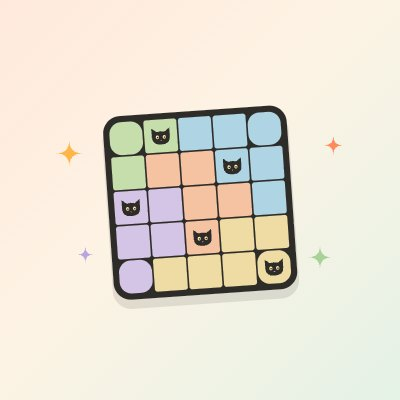
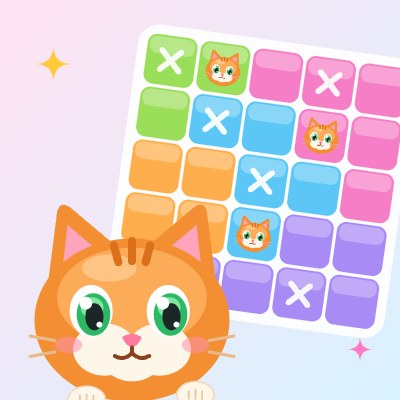
Meow: bright casual look (glossy tiles, a cat mascot, chunky buttons)
Inspired by the style of casual puzzle apps the user pointed to, with our own
art: glossy rounded tiles in bright colours (the colour marks the region),
white × marks, Miso (an original ginger cat with green eyes) in the squares,
on home and on the Games tab card, gradient buttons, Fredoka headings and a
soft pink-to-blue background. The cat uses solid colours: an SVG gradient
referenced by id broke wherever its first copy sat in a hidden part of the page.

diff --git a/backend/game-pages/meowdoku.html b/backend/game-pages/meowdoku.html
@@ -9,7 +9,7 @@
 <meta name="color-scheme" content="light">
 <link rel="preconnect" href="https://fonts.googleapis.com">
 <link rel="preconnect" href="https://fonts.gstatic.com" crossorigin>
-<link rel="stylesheet" href="https://fonts.googleapis.com/css2?family=Figtree:wght@400;600;700;800&family=Sora:wght@600;700;800&display=swap">
+<link rel="stylesheet" href="https://fonts.googleapis.com/css2?family=Figtree:wght@400;600;700;800&family=Fredoka:wght@500;600;700&display=swap">
 <style>
 /* Meow: one cat in every row, column and coloured region, and no two cats touching. The puzzle and its pixel look are the Pocket Puzzles
    design; around it, everything Odd One Out has in the Sowaka app: the company's leaderboard, colleague challenges on the same puzzle, how to play,
@@ -19,15 +19,15 @@
 [hidden]{display:none!important}
 :root{
   color-scheme:light; --padt:max(14px,env(safe-area-inset-top));
-  --bg:#FBF7F1; --paper:#FFFFFF; --soft:#F4EFE7; --soft2:#EAE3D8; --ink:#2E2C29; --line:#E7E0D4; --muted:#79736A; --faint:#C9C1B4;
+  --bg:#F6F1FF; --paper:#FFFFFF; --soft:#F4EFE7; --soft2:#EAE3D8; --ink:#2E2C29; --line:#E7E0D4; --muted:#79736A; --faint:#C9C1B4;
   --sh:0 1px 2px rgba(46,44,41,.06),0 6px 18px rgba(46,44,41,.08); --sh-press:0 1px 2px rgba(46,44,41,.08);
-  --accent:#FF8A5B; --accent-hi:#FF9C72; --mint:#E6F2E1; --mint2:#B8D6AD; --good:#4E8B4F; --bad:#A22220; --gold:#F5AB4E; --pink:#E9896D;
-  --pixel:'Sora',system-ui,-apple-system,'Segoe UI',sans-serif; --mono:'Figtree',system-ui,-apple-system,sans-serif; --body:'Figtree',system-ui,-apple-system,'Segoe UI',sans-serif;
+  --accent:#FF9431; --accent-hi:#FFA54F; --accent-deep:#DB6A12; --mint:#E6F2E1; --mint2:#B8D6AD; --good:#4E8B4F; --bad:#A22220; --gold:#F5AB4E; --pink:#E9896D;
+  --pixel:'Fredoka','Sora',system-ui,-apple-system,'Segoe UI',sans-serif; --mono:'Figtree',system-ui,-apple-system,sans-serif; --body:'Figtree',system-ui,-apple-system,'Segoe UI',sans-serif;
 }
 *{box-sizing:border-box}
-html{overflow-x:clip;background:var(--bg);-webkit-text-size-adjust:100%;text-size-adjust:100%;touch-action:manipulation;overscroll-behavior:none}
+html{overflow-x:clip;background:linear-gradient(180deg,#FFF0F8 0%,#EEF2FF 45%,#E6F6FF 100%) fixed;-webkit-text-size-adjust:100%;text-size-adjust:100%;touch-action:manipulation;overscroll-behavior:none}
 body{margin:0;min-height:100vh;min-height:100dvh;color:var(--ink);font-family:var(--body);font-size:15px;line-height:1.35;
-  background:var(--bg);
+  background:transparent;
   padding:var(--padt) max(16px,env(safe-area-inset-right)) calc(32px + env(safe-area-inset-bottom)) max(16px,env(safe-area-inset-left));
   touch-action:manipulation;overscroll-behavior:none;-webkit-user-select:none;user-select:none;-webkit-touch-callout:none;-webkit-tap-highlight-color:transparent}
 button{font:inherit;color:inherit;touch-action:manipulation;-webkit-tap-highlight-color:transparent;cursor:pointer}
@@ -53,12 +53,12 @@ h1 .face{width:26px;height:24px}
 .btn{font-family:var(--body);font-weight:700;font-size:15px;line-height:1.15;min-height:48px;padding:8px 14px;border-radius:14px;border:1px solid var(--line);
   background:var(--paper);color:var(--ink);box-shadow:var(--sh);display:inline-flex;align-items:center;justify-content:center;gap:8px;transition:transform .06s,box-shadow .06s}
 .btn:active{transform:translateY(1px);box-shadow:var(--sh)}
-.btn.go{background:var(--accent);font-family:var(--pixel);font-weight:800;font-size:16px;letter-spacing:0;min-height:58px}
-.btn.go:active{background:var(--accent-hi)}
+.btn.go{background:linear-gradient(180deg,#FFB24F,#FF8A22);color:#fff;border-color:transparent;text-shadow:0 1px 0 rgba(170,70,0,.35);box-shadow:0 5px 0 var(--accent-deep),0 10px 18px rgba(219,106,18,.25)!important;font-family:var(--pixel);font-weight:800;font-size:16px;letter-spacing:0;min-height:58px}
+.btn.go:active{transform:translateY(4px);box-shadow:0 1px 0 var(--accent-deep)!important}
 .btn.primary{background:var(--ink);color:var(--paper)}
 .btn:disabled{opacity:.45;cursor:default}
 .mini{font-family:var(--body);font-weight:700;font-size:12px;min-height:32px;padding:0 10px;border-radius:12px;border:1px solid var(--line);background:var(--paper);color:var(--ink);white-space:nowrap}
-.mini.yes{font-family:var(--pixel);font-weight:800;font-size:12px;min-height:40px;min-width:92px;padding:0 12px;background:var(--accent);box-shadow:var(--sh)}
+.mini.yes{font-family:var(--pixel);font-weight:800;font-size:15px;min-height:40px;min-width:92px;padding:0 12px;background:linear-gradient(180deg,#FFB24F,#FF8A22);color:#fff;border-color:transparent;box-shadow:var(--sh)}
 .mini.yes:active{transform:translateY(1px);box-shadow:var(--sh)}
 .mini:disabled{opacity:.5}
 .link{font-family:var(--body);font-weight:700;font-size:13px;color:var(--muted);background:none;border:0;padding:6px 0;text-decoration:underline;text-underline-offset:2px}
@@ -70,7 +70,7 @@ h1 .face{width:26px;height:24px}
 .top{position:relative;margin:calc(-1*var(--padt)) calc(50% - 50vw) 0;padding:var(--padt) max(16px,env(safe-area-inset-right)) 16px max(16px,env(safe-area-inset-left));
   background:var(--paper);border-bottom:2px solid var(--line);display:flex;flex-direction:column;align-items:center;gap:10px}
 .top>*{position:relative;width:100%;max-width:440px}
-.top .art{border-radius:20px;overflow:hidden;background:linear-gradient(135deg,#FFE9DC 0%,#FDF3E4 45%,#E4F2E6 100%)}
+.top .art{border-radius:22px;overflow:hidden;background:linear-gradient(135deg,#FFE3F2 0%,#F3ECFF 50%,#D9F1FF 100%)}
 .top .art svg{display:block;width:100%;height:160px}
 .top .tt{margin:2px 0 0;text-align:center;font-family:var(--pixel);font-weight:700;font-size:16px;line-height:1.4;letter-spacing:-.01em;color:var(--ink)}
 .rankbar{display:grid;grid-template-columns:1fr auto;gap:8px;align-items:stretch}
@@ -92,7 +92,7 @@ h1 .face{width:26px;height:24px}
 .tabs.one{grid-template-columns:1fr}
 .tab{position:relative;font-family:var(--body);font-weight:700;font-size:14px;line-height:1;min-height:44px;border-radius:12px;border:0;background:transparent;color:var(--muted);
   display:flex;align-items:center;justify-content:center;gap:8px}
-.tab.on{background:var(--ink);color:#fff}
+.tab.on{background:linear-gradient(180deg,#9A7BFF,#7457F0);color:#fff;box-shadow:0 3px 0 #5A3FD0}
 .badge{min-width:22px;height:22px;padding:0 7px;border-radius:999px;background:var(--accent);color:var(--ink);font-weight:700;font-size:12px;display:grid;place-items:center;border:1px solid var(--line)}
 .tab.on .badge{border-color:var(--paper)}
 .pane{display:flex;flex-direction:column;gap:14px}
@@ -153,22 +153,22 @@ h1 .face{width:26px;height:24px}
 
 /* The board. */
 .stage{position:relative}
-.board{--n:6;display:grid;grid-template-columns:repeat(var(--n),1fr);grid-template-rows:repeat(var(--n),minmax(0,1fr));aspect-ratio:1;border:2.5px solid var(--ink);border-radius:14px;
-  overflow:hidden;background:var(--ink);width:100%;box-shadow:var(--sh);touch-action:none}
-.cell{position:relative;min-width:0;min-height:0;padding:0;border:0;border-radius:0;background:var(--color);display:grid;place-items:center;box-shadow:inset -1px -1px rgba(46,44,41,.14);
-  border-right:var(--edge-r,0) solid #3A3733;border-bottom:var(--edge-b,0) solid #3A3733;-webkit-user-select:none;user-select:none}
+.board{--n:6;display:grid;grid-template-columns:repeat(var(--n),1fr);grid-template-rows:repeat(var(--n),minmax(0,1fr));gap:calc(24px/var(--n));padding:calc(36px/var(--n));aspect-ratio:1;border:0;border-radius:22px;
+  overflow:hidden;background:#fff;width:100%;box-shadow:0 2px 0 rgba(120,90,200,.10),0 12px 30px rgba(120,90,200,.18);touch-action:none}
+.cell{position:relative;min-width:0;min-height:0;padding:0;border:0!important;border-radius:calc(70px/var(--n));display:grid;place-items:center;
+  background:linear-gradient(180deg,rgba(255,255,255,.34) 0,rgba(255,255,255,.34) 32%,rgba(255,255,255,0) 33%),var(--color);box-shadow:inset 0 -4px 0 rgba(0,0,0,.13),inset 0 2px 0 rgba(255,255,255,.35);-webkit-user-select:none;user-select:none}
 .cell:focus-visible{outline:3px dashed var(--ink);outline-offset:-5px;z-index:1}
-.cell .face{width:62%;height:62%;pointer-events:none}
-.cell .mark{width:34%;height:34%;color:rgba(46,44,41,.55);pointer-events:none}
+.cell .face{width:78%;height:72%;pointer-events:none;filter:drop-shadow(0 2px 1px rgba(0,0,0,.18))}
+.cell .mark{width:44%;height:44%;color:#fff;pointer-events:none;filter:drop-shadow(0 1.5px 1px rgba(0,0,0,.28))}
 .cell.bad::after{content:'!';position:absolute;right:2px;top:2px;font:bold 12px/15px var(--mono);background:var(--bad);color:#fff;border-radius:50%;width:15px;height:15px;text-align:center}
 .cell .pin{position:absolute;bottom:3px;right:3px;width:9px;height:9px;color:#55564B;line-height:9px;pointer-events:none}
 .cell.hint{animation:hintflash .9s ease-out}
-.cell.was{outline:3px solid var(--accent);outline-offset:-4px}
+.cell.was{outline:3px solid #fff;outline-offset:-4px;box-shadow:0 0 0 3px var(--accent)}
 /* Over the board while it counts down; on the menu (.m) it is the menu itself. */
-.cover{position:absolute;inset:-4px;border-radius:18px;background:var(--bg);display:flex;flex-direction:column;align-items:center;justify-content:center;gap:12px;text-align:center;padding:12px;z-index:2}
+.cover{position:absolute;inset:-4px;border-radius:22px;background:#F7F3FF;display:flex;flex-direction:column;align-items:center;justify-content:center;gap:12px;text-align:center;padding:12px;z-index:2}
 .cover:not(.m) h2{font-family:var(--pixel);font-weight:800;font-size:18px;margin:0;line-height:1.4}
 .cover:not(.m) p{margin:0;color:var(--muted);max-width:30ch;font-size:14px}
-.cover .n{font-family:var(--pixel);font-weight:800;font-size:96px;line-height:1;color:var(--accent)}
+.cover .n{font-family:var(--pixel);font-weight:700;font-size:110px;line-height:1;color:#FF9A2E;text-shadow:0 6px 0 var(--accent-deep)}
 .cover .nb{font-family:var(--pixel);font-size:12px;color:var(--muted);letter-spacing:0}
 .cover.m{position:static;inset:auto;background:none;border-radius:0;padding:0;align-items:stretch;justify-content:flex-start;gap:14px;text-align:left}
 /* The tools under the board. */
@@ -399,24 +399,46 @@ const num=i=>String(i).padStart(3,'0');
 const paths={timer:'M9 2h6 M12 5a8 8 0 1 0 .01 0 M12 8v5h4',cross:'m6 6 12 12M18 6 6 18',cat:'M3 4l5 4h8l5-4v12l-4 4H7l-4-4z M8 12v2m8-2v2m-5 2h2',undo:'M4 10h10a6 6 0 0 1 0 12 M4 10l6-6 M4 10l6 6',bulb:'M9 17v-2a7 7 0 1 1 6 0v2z M9 20h6 M11 23h2',lock:'M5 11h14v10H5z M8 11V7a4 4 0 0 1 8 0v4'};
 function icon(k){ return '<svg aria-hidden="true" class="icon" viewBox="0 0 24 24" fill="none" stroke="currentColor" stroke-width="2" stroke-linecap="round" stroke-linejoin="round"><path d="'+paths[k]+'"/></svg>'; }
 document.querySelectorAll('[data-icon]').forEach(e=>e.replaceWith(document.createRange().createContextualFragment(icon(e.dataset.icon))));
-/* The cat: a clean flat face, dark on the pastel squares. */
-const CAT_PATH='<path d="M4 3.5 10.6 8.6Q16 7 21.4 8.6L28 3.5V15.2Q28 25.5 16 25.5T4 15.2Z" fill="#2E2C29"/><ellipse cx="11.4" cy="15.6" rx="2.1" ry="2.5" fill="#FFE7A8"/><ellipse cx="20.6" cy="15.6" rx="2.1" ry="2.5" fill="#FFE7A8"/><circle cx="11.7" cy="16" r=".95" fill="#2E2C29"/><circle cx="20.9" cy="16" r=".95" fill="#2E2C29"/><path d="M14.7 19.6h2.6L16 21.1Z" fill="#F7A1B5"/>';
-const FACE='<svg class="face" aria-hidden="true" viewBox="0 0 32 28">'+CAT_PATH+'</svg>';
+/* Miso, the game's cat: a round ginger face with big green eyes. CAT is the face alone (in a square of the board); MASCOT adds the paws. */
+/* Solid colours with highlights, no gradients: a gradient referenced by id breaks wherever its first copy sits in a hidden part of the page. */
+const CAT_DEFS='';
+const EYE=(x)=>'<ellipse cx="'+x+'" cy="49" rx="9.5" ry="11.5" fill="#fff"/><ellipse cx="'+(x+1)+'" cy="50.5" rx="7.4" ry="9.4" fill="#2DB866"/><ellipse cx="'+(x+.4)+'" cy="47.5" rx="5" ry="4.6" fill="#7FE7A0"/><ellipse cx="'+(x+1.4)+'" cy="51.5" rx="4" ry="6" fill="#1D2626"/><circle cx="'+(x-2.4)+'" cy="45.5" r="2.8" fill="#fff"/><circle cx="'+(x+3.6)+'" cy="55" r="1.3" fill="#fff"/>';
+const CAT_BODY=CAT_DEFS
+  +'<path d="M12 44 17 5Q18.5 0 23 3.5L45 22Z" fill="#F48E33"/><path d="M19 34 21.5 11 37 24Z" fill="#FFA4BD"/>'
+  +'<path d="M88 44 83 5Q81.5 0 77 3.5L55 22Z" fill="#F48E33"/><path d="M81 34 78.5 11 63 24Z" fill="#FFA4BD"/>'
+  +'<ellipse cx="50" cy="53" rx="43" ry="36" fill="#F48E33"/><ellipse cx="50" cy="43" rx="33" ry="22" fill="#FFB466" opacity=".75"/><ellipse cx="40" cy="30" rx="12" ry="6" fill="#FFD9A8" opacity=".55"/>'
+  +'<path d="M50 18v9M42 20l2 7.5M58 20l-2 7.5" stroke="#DA6F1C" stroke-width="3.6" stroke-linecap="round"/>'
+  +'<ellipse cx="38" cy="66" rx="14" ry="11.5" fill="#FFF6EA"/><ellipse cx="62" cy="66" rx="14" ry="11.5" fill="#FFF6EA"/><ellipse cx="50" cy="70" rx="13" ry="10" fill="#FFF6EA"/>'
+  +EYE(32)+EYE(66)
+  +'<ellipse cx="22" cy="64" rx="6" ry="3.6" fill="#FF8FAE" opacity=".55"/><ellipse cx="78" cy="64" rx="6" ry="3.6" fill="#FF8FAE" opacity=".55"/>'
+  +'<path d="M45.6 60.5Q50 57.6 54.4 60.5Q52.6 64.6 50 65Q47.4 64.6 45.6 60.5Z" fill="#FF7AA0"/>'
+  +'<path d="M50 65v2.6M50 67.6q-3.6 3.6-7.6 1.2M50 67.6q3.6 3.6 7.6 1.2" fill="none" stroke="#8A4320" stroke-width="1.8" stroke-linecap="round"/>'
+  +'<path d="M16 62l-11-2M16 67l-11 2M84 62l11-2M84 67l11 2" stroke="#E9B98A" stroke-width="1.4" stroke-linecap="round"/>';
+const FACE='<svg class="face" aria-hidden="true" viewBox="0 0 100 90">'+CAT_BODY+'</svg>';
 document.querySelector('[data-face]').outerHTML=FACE;
-/* Home's picture: a small solved board on a warm gradient, a cat in every row, column and colour. */
-const MEADOW=(()=>{ const n=5, g=[0,0,1,1,1, 0,2,2,1,1, 3,3,2,2,1, 3,3,2,4,4, 3,4,4,4,4], cats=[1,8,10,17,24], C=['#C6DDAC','#AFD4E3','#F5C2A2','#D4C4E5','#EEDCA4'];
-  const cs=26, x0=150-n*cs/2, y0=12; let b='<svg class="scene" viewBox="0 0 300 150" role="img" aria-label="A solved Meow board with five cats">';
-  b+='<g transform="rotate(-4 150 75)"><rect x="'+(x0-5)+'" y="'+(y0-5)+'" width="'+(n*cs+10)+'" height="'+(n*cs+10)+'" rx="14" fill="#2E2C29" opacity=".12" transform="translate(0 6)"/>';
-  b+='<rect x="'+(x0-4)+'" y="'+(y0-4)+'" width="'+(n*cs+8)+'" height="'+(n*cs+8)+'" rx="13" fill="#2E2C29"/>';
-  for(let i=0;i<n*n;i++){ const x=x0+(i%n)*cs, y=y0+Math.floor(i/n)*cs; b+='<rect x="'+(x+.6)+'" y="'+(y+.6)+'" width="'+(cs-1.2)+'" height="'+(cs-1.2)+'" rx="'+(i===0||i===n-1||i===n*n-n||i===n*n-1?9:2)+'" fill="'+C[g[i]]+'"/>';
-    if(cats.includes(i))b+='<svg x="'+(x+4)+'" y="'+(y+5)+'" width="'+(cs-8)+'" height="'+(cs-10)+'" viewBox="0 0 32 28">'+CAT_PATH+'</svg>'; }
+const PAW=(x,y)=>'<g transform="translate('+x+' '+y+')"><ellipse cx="0" cy="0" rx="14" ry="10" fill="#FFF6EA" stroke="#F0D9BF" stroke-width="1.2"/><path d="M-5 -3v6M0 -4v7M5 -3v6" stroke="#E7C9A6" stroke-width="1.4" stroke-linecap="round"/></g>';
+/* Home's picture (and the Games tab card): a glossy board with ×s and cats, and Miso beside it with a paw on the edge. */
+const TILE_COLS=['#9BDE5A','#F57EC6','#5CC6F6','#FFAE4D','#A98BF5','#FFD84A','#4FD8BA','#FF7C7C'];
+function heroArt(square){ const W=300, H=square?300:160, g=[0,0,1,1,1, 0,2,2,1,1, 3,3,2,2,1, 3,3,2,4,4, 3,4,4,4,4], n=5;
+  const cs=square?40:25, x0=square?96:146, y0=square?36:14, cats={1:1,8:1,17:1}, xs={0:1,3:1,6:1,12:1,20:1,23:1};
+  let b='<svg class="scene" viewBox="0 0 '+W+' '+H+'" role="img" aria-label="Miso the cat beside a Meow board">'+CAT_DEFS;
+  if(square)b+='<defs><linearGradient id="msky" x1="0" y1="0" x2="1" y2="1"><stop offset="0" stop-color="#FFE3F2"/><stop offset="1" stop-color="#D9F1FF"/></linearGradient></defs><rect width="300" height="300" fill="url(#msky)"/>';
+  b+='<g transform="rotate(8 '+(x0+n*cs/2)+' '+(y0+n*cs/2)+')"><rect x="'+(x0-6)+'" y="'+(y0-6)+'" width="'+(n*cs+12)+'" height="'+(n*cs+12)+'" rx="16" fill="#fff" opacity=".9"/>';
+  for(let i=0;i<n*n;i++){ const x=x0+(i%n)*cs, y=y0+Math.floor(i/n)*cs, c=TILE_COLS[g[i]];
+    b+='<rect x="'+(x+1.2)+'" y="'+(y+1.2)+'" width="'+(cs-2.4)+'" height="'+(cs-2.4)+'" rx="'+(cs*.18)+'" fill="'+c+'"/><rect x="'+(x+3)+'" y="'+(y+2.6)+'" width="'+(cs-6)+'" height="'+(cs*.32)+'" rx="'+(cs*.14)+'" fill="#fff" opacity=".28"/>';
+    if(xs[i])b+='<path d="M'+(x+cs*.32)+' '+(y+cs*.32)+'L'+(x+cs*.68)+' '+(y+cs*.68)+'M'+(x+cs*.68)+' '+(y+cs*.32)+'L'+(x+cs*.32)+' '+(y+cs*.68)+'" stroke="#fff" stroke-width="'+(cs*.11)+'" stroke-linecap="round" opacity=".92"/>';
+    if(cats[i])b+='<svg x="'+(x+cs*.12)+'" y="'+(y+cs*.16)+'" width="'+(cs*.76)+'" height="'+(cs*.68)+'" viewBox="0 0 100 90">'+CAT_BODY+'</svg>'; }
   b+='</g>';
+  const mx=square?14:30, my=square?150:62, mw=square?170:104;
+  b+='<svg x="'+mx+'" y="'+my+'" width="'+mw+'" height="'+(mw*.9)+'" viewBox="0 0 100 90">'+CAT_BODY+'</svg>';
+  b+=PAW(mx+mw*.78,my+mw*.86)+PAW(mx+mw*.30,my+mw*.88);
   const spark=(x,y,r,c)=>'<path d="M'+x+' '+(y-r)+'Q'+x+' '+y+' '+(x+r)+' '+y+'Q'+x+' '+y+' '+x+' '+(y+r)+'Q'+x+' '+y+' '+(x-r)+' '+y+'Q'+x+' '+y+' '+x+' '+(y-r)+'Z" fill="'+c+'"/>';
-  b+=spark(52,40,10,'#FFB547')+spark(250,34,7,'#FF8A5B')+spark(240,118,9,'#A9D19A')+spark(64,116,6,'#B9A6E0');
-  return b+'</svg>'; })();
+  b+=square?spark(40,48,14,'#FFC93C')+spark(270,262,10,'#FF7CC4'):spark(30,30,9,'#FFC93C')+spark(282,140,7,'#FF7CC4');
+  return b+'</svg>'; }
+const MEADOW=heroArt(false);
 const RULE_ART=['<path fill="#c1d9e8" d="M1 1h26v26H1z"/><path fill="#94bacc" d="M10 1h8v26h-8zM1 10h26v8H1z"/><path d="M10 1v26m8-26v26M1 10h26M1 18h26"/>','<path fill="#d6c8e9" d="M1 1h26v26H1z"/><path fill="#b5d4a8" d="M1 1h18v9h-9v9H1z"/><path fill="#f6c49b" d="M1 19h9v-9h17v17H1z"/><path d="M19 1v9h8M1 19h9v-9h9"/>','<path fill="#f6d8ba" d="M1 1h26v26H1z"/><path d="M14 1v26M1 14h26"/><path stroke-width="2" d="m4 4 7 7m0-7-7 7m13 6 7 7m0-7-7 7"/>'];
 const ruleSvg=i=>'<svg aria-hidden="true" viewBox="0 0 28 28" stroke="#44483b" stroke-width="1.3" fill="none">'+RULE_ART[i]+'<rect x="1" y="1" width="26" height="26" rx="1"/></svg>';
-const COLORS=['#c6ddac','#afd4e3','#f5c2a2','#d4c4e5','#eedca4','#ebbfc5','#b7dfd3','#c6cdf0'];
+const COLORS=TILE_COLS;
 /* How to play's picture: a small solved board. */
 (function(){ const n=4, g=[0,0,1,1,0,2,2,1,3,2,2,1,3,3,3,1], cats=[1,7,8,14], d=$('demo'); let h='';
   for(let i=0;i<n*n;i++){ const st=['--color:'+COLORS[g[i]]]; if(i%n<n-1&&g[i]!==g[i+1])st.push('--edge-r:2px'); if(i<n*(n-1)&&g[i]!==g[i+n])st.push('--edge-b:2px');
@@ -629,7 +651,7 @@ function buildBoard(){ const {n,g,f}=pz(), b=$('board'); b.style.setProperty('--
   focusIndex=f; paint(); }
 function paint(){ const {n,g,f}=pz(), bad=conflicts(), kids=$('board').children;
   round.cells.forEach((v,i)=>{ const e=kids[i]; if(!e)return; const want=v+'|'+(i===f?1:0); if(e._v!==want){ e._v=want;
-      e.innerHTML=(v===1?FACE:v===2?'<svg class="mark" viewBox="0 0 10 10" aria-hidden="true"><path d="M2 2l6 6M8 2l-6 6" stroke="currentColor" stroke-width="1.6" stroke-linecap="round"/></svg>':'')+(i===f?'<span class="pin">'+icon('lock').replace('class="icon"','style="width:100%;height:100%"')+'</span>':''); }
+      e.innerHTML=(v===1?FACE:v===2?'<svg class="mark" viewBox="0 0 10 10" aria-hidden="true"><path d="M2 2l6 6M8 2l-6 6" stroke="currentColor" stroke-width="2.3" stroke-linecap="round"/></svg>':'')+(i===f?'<span class="pin">'+icon('lock').replace('class="icon"','style="width:100%;height:100%"')+'</span>':''); }
     e.classList.toggle('bad',bad.includes(i)); e.tabIndex=i===focusIndex?0:-1;
     e.setAttribute('aria-label','Row '+(Math.floor(i/n)+1)+', column '+(i%n+1)+', region '+(g[i]+1)+', '+(v===1?'cat':v===2?'marked':'empty')+(i===f?', starting cat':'')+(bad.includes(i)?', clashes':'')); });
   $('undo').disabled=!round.history.length||mode!=='play'; $('hint').disabled=mode!=='play';
